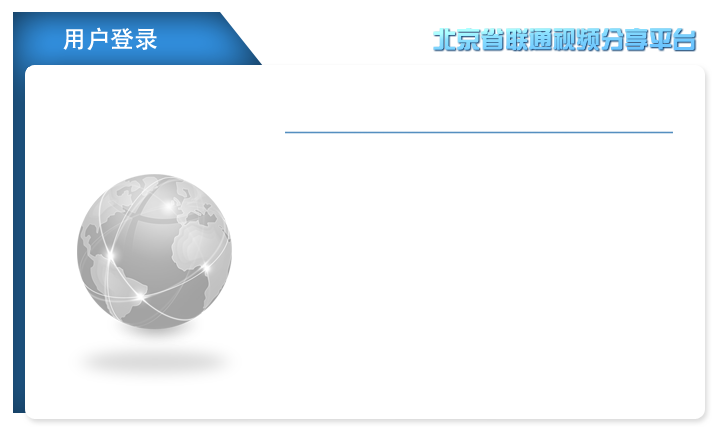
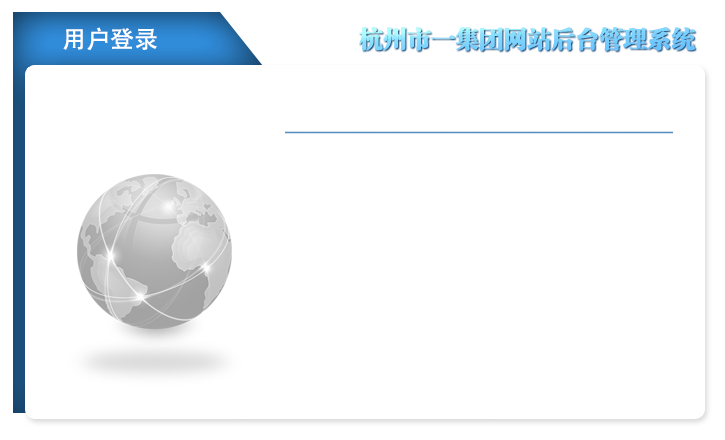
志愿者页面基本完成；后台登陆界面图片t，title修改

Changed region(s): [[0.4855, 0.0591, 0.971, 0.1182]]

diff --git a/trunk/admin/WebContent/sysIndex.html b/trunk/admin/WebContent/sysIndex.html
@@ -3,7 +3,7 @@
 <html xmlns="http://www.w3.org/1999/xhtml">
 <head>
 <meta http-equiv="Content-Type" content="text/html; charset=UTF-8"/>
-<title>杭州市第一人民医院后台管理系统</title>
+<title>杭州市第一人民医院集团后台管理系统</title>
 <link rel="icon" href="/images/favicon.ico" type="image/x-icon"/>
 <link rel="shortcut icon" href="/images/favicon.ico" type="image/x-icon"/>
 <script src="js/jquery-1.7.2.js"></script>
@@ -68,26 +68,26 @@
 </div>
 <div region="west" title="功能列表" style="width:200px;" border="false" id="myMenu">
     <div class="easyui-accordion" fit="true" border="false" id="menuAccordion">
-        <div title="集团信息管理" folder="groupInfoFolder" class="J_Menu" name="集团信息管理"> <ul>
-                <li><a href="#" id="member" name="集团成员管理" class="J_MenuItem">集团成员管理 temp</a></li>
-            </ul>
-        </div>
+<!--         <div title="集团信息管理" folder="groupInfoFolder" class="J_Menu" name="集团信息管理"> <ul> -->
+<!--                 <li><a href="#" id="member" name="集团成员管理" class="J_MenuItem">集团成员管理 temp</a></li> -->
+<!--             </ul> -->
+<!--         </div> -->
          <div title="科室信息管理" folder="deptInfoFolder" class="J_Menu" name="科室信息管理"> <ul>
-                <li><a href="#" id="deptType" name="科室类型管理" class="J_MenuItem">科室类型管理 temp</a></li>
+<!--                 <li><a href="#" id="deptType" name="科室类型管理" class="J_MenuItem">科室类型管理 temp</a></li> -->
                 <li><a href="#" id="dept" name="科室管理" class="J_MenuItem">科室信息管理 ok</a></li>
             </ul>
         </div>
          <div title="人员信息管理" folder="perInfoFolder" class="J_Menu" name="人员信息管理"> <ul>
-                <li><a href="#" id="talentType" name="人才类型管理" class="J_MenuItem">人才类型管理 temp</a></li>
+<!--                 <li><a href="#" id="talentType" name="人才类型管理" class="J_MenuItem">人才类型管理 temp</a></li> -->
                 <li><a href="#" id="doctor" name="医师信息管理" class="J_MenuItem">医师信息管理 ok</a></li>
                 <li><a href="#" id="leader" name="领导信息管理" class="J_MenuItem">领导信息管理 ok</a></li>
             </ul>
         </div>
         <div title="网站内容管理" folder="contentFolder" class="J_Menu" name="网站内容管理">
             <ul>
-                <li><a href="#" id="catalogConfig" name="栏目管理" class="J_MenuItem">栏目管理</a></li>
+<!--                 <li><a href="#" id="catalogMan" name="栏目管理" class="J_MenuItem">栏目管理</a></li> -->
                 <li><a href="#" id="contentMan" name="内容管理" class="J_MenuItem">内容管理 ok</a></li>
-                <li><a href="#" id="sliderPic" name="首页滚动图片管理" class="J_MenuItem">首页滚动图片管理 temp</a></li>
+<!--                 <li><a href="#" id="sliderPic" name="首页滚动图片管理" class="J_MenuItem">首页滚动图片管理 temp</a></li> -->
             </ul>
         </div>
         <div title="在线咨询管理" folder="consultFolder" class="J_Menu" name="在线咨询管理">

diff --git a/trunk/admin/WebContent/index.html b/trunk/admin/WebContent/index.html
@@ -3,7 +3,7 @@
 <html xmlns="http://www.w3.org/1999/xhtml">
 <head>
     <meta http-equiv="Content-Type" content="text/html; charset=utf-8"/>
-    <title>北京省联通视频分享平台</title>
+    <title>杭州市第一人民医院集团后台管理系统</title>
     <link rel="icon" href="images/favicon.ico" type="image/x-icon"/>
     <link rel="shortcut icon" href="images/favicon.ico" type="image/x-icon"/>
     <link href="style/common.css" rel="stylesheet" type="text/css"/>

diff --git a/trunk/web/WebContent/volunteer/master/top.html b/trunk/web/WebContent/volunteer/master/top.html
@@ -28,7 +28,7 @@
 			<ul>
 				<li><a href="index.shtml">之家首页</a></li>
 				<li><a href="/web/main/index.shtml" target='_blank'>市一介绍</a></li>
-				<li><a href="cooperation.shtml">协作单位介绍</a></li>
+				<li><a href="QJ.shtml">协作单位介绍</a></li>
 				<li><a href="duty.shtml">志愿者服务</a></li>
 				<li><a href="train.shtml">志愿者培训</a></li>
 				<li><a href="reward.shtml">志愿者权益及奖励办法</a></li>

diff --git a/trunk/admin/WebContent/nologin.htm b/trunk/admin/WebContent/nologin.htm
@@ -2,7 +2,7 @@
 <html xmlns="http://www.w3.org/1999/xhtml">
 <head>
 <meta http-equiv="Content-Type" content="text/html; charset=utf-8" />
-<title>星梦科技手机流媒体生产系统</title>
+<title>杭州市第一人民医院集团后台管理系统</title>
 </head>
 <body>
 <script type="text/javascript">
